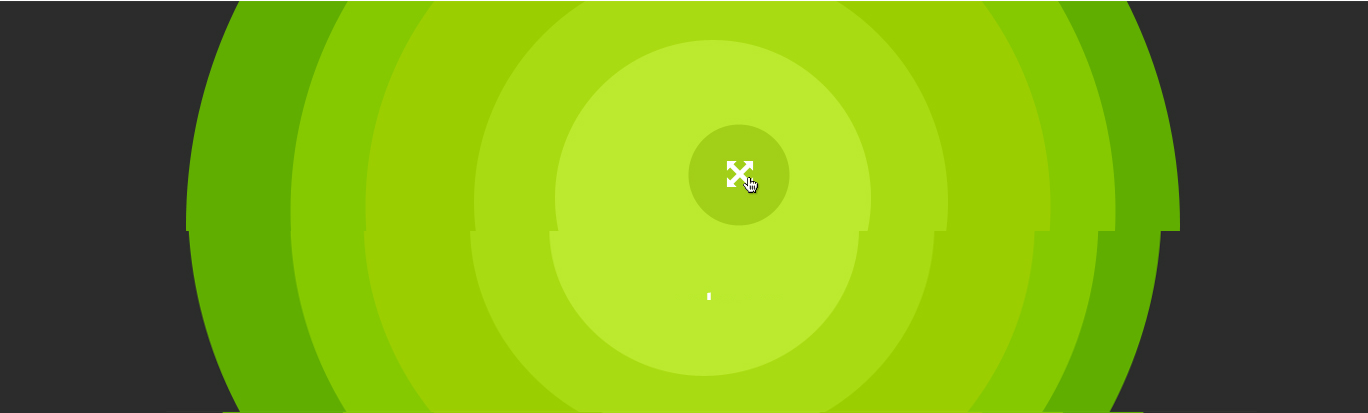
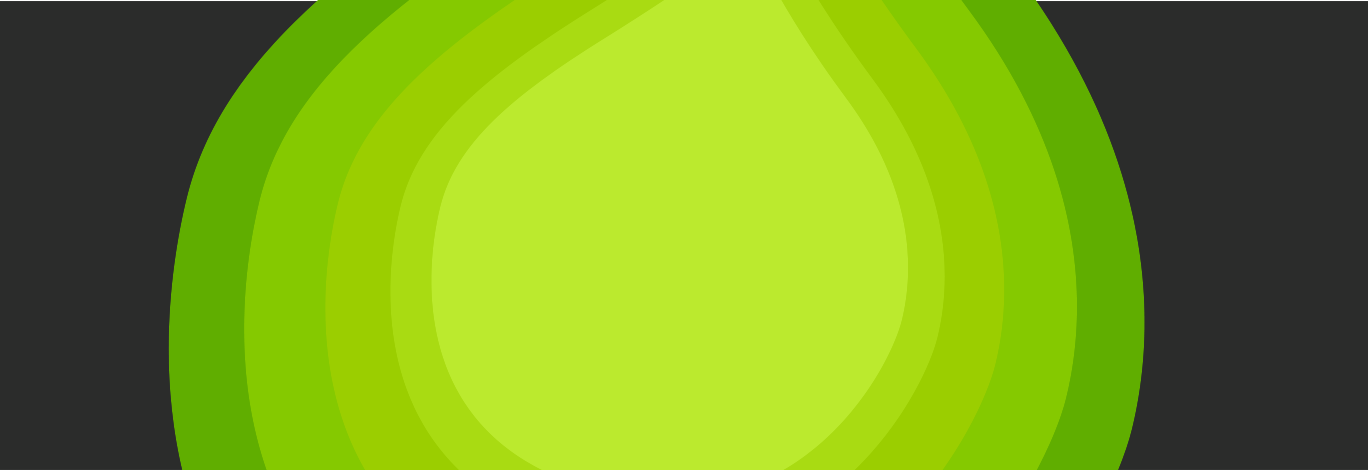
UI Changes
* Updated hero image
* Added new buckets graphic to home page
* Stylized links

diff --git a/web/style.css b/web/style.css
@@ -5,6 +5,16 @@ html, body {
     height: 100%;
 }
 
+a {
+    color: #BDBDBD;
+    text-decoration: none;
+    font-weight: bold;
+}
+
+a:hover {
+    color: #9ace00;
+}
+
 #notfooter {
     min-height: 100%;
     height: auto !important;
@@ -70,11 +80,11 @@ nav.primary a.current {
 }
 
 #hero {
-    background: url('/images/hero.png') #262626 no-repeat top center;
+    background: url('/images/hero.png') #2b2c2b no-repeat top center;
     width: 100%;
     color: white;
     text-align: center;
-    padding: 250px 0 50px 0;
+    padding: 200px 0 200px 0;
 }
 
 #hero p {
@@ -146,6 +156,7 @@ a.greenbutton {
     text-decoration: none;
     border-radius: 5px;
     -moz-border-radius: 5px;
+    font-weight: normal;
 }
 
 a.greenbutton:hover {
@@ -211,6 +222,7 @@ footer a:hover {
     text-decoration: none;
     color: #eaeaea;
     letter-spacing: 2px;
+    font-weight: normal;
 }
 
 #content nav a.current, #content nav a:hover {
@@ -308,6 +320,10 @@ footer a:hover {
     font-size: 90%;
 }
 
+#thefeed article a {
+    font-weight: normal;
+}
+
 #thefeed article a:hover {
     font-weight: bold;
 }
@@ -370,6 +386,7 @@ footer a:hover {
 
 .textQuestion .question a {
     text-decoration: none;
+    font-weight: normal;
 }
 
 .sliderQuestion .answers {
